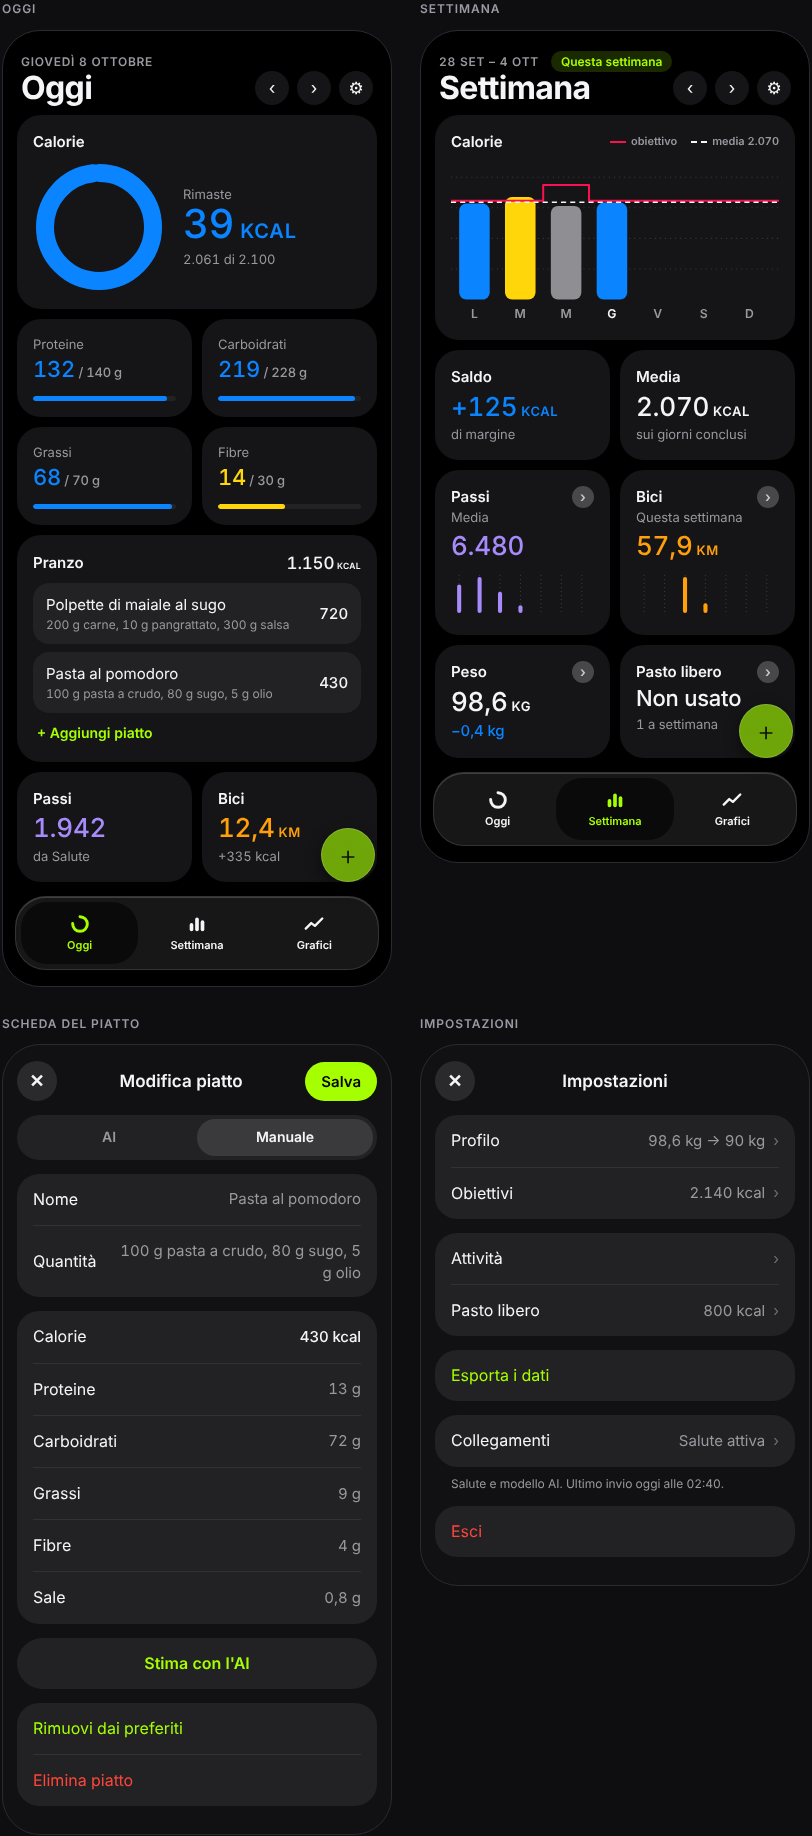
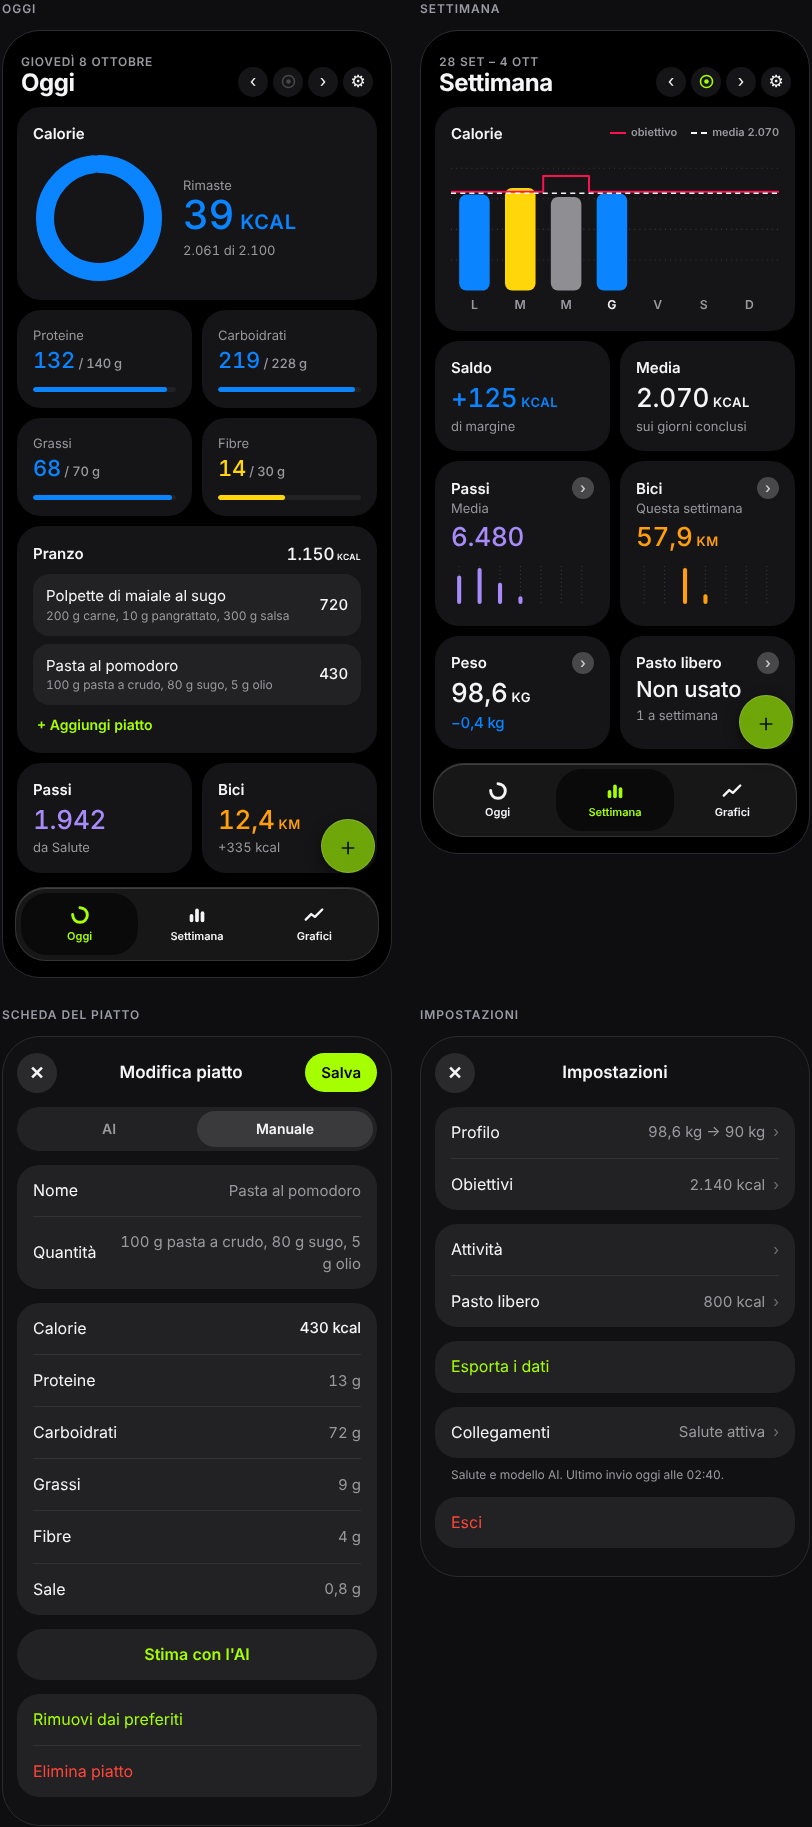
Fase 6: ritorno al presente come tasto icona tra le frecce
Claude-Session: https://claude.ai/code/session_014pArVVdaMw5SF5yB6rBTMQ

diff --git a/docs/design/bozza-fase-6.html b/docs/design/bozza-fase-6.html
@@ -26,12 +26,14 @@ h1{font-size:26px;margin:0;letter-spacing:-.02em;text-wrap:balance}
 .legend i{width:12px;height:12px;border-radius:50%;border:1px solid var(--line)}
 
 .phone{position:relative;border-radius:38px;overflow:hidden;background:#000;color:var(--p-fg);padding:22px 14px 104px;display:flex;flex-direction:column;gap:10px;border:1px solid var(--line);font-variant-numeric:tabular-nums}
-.top{display:flex;justify-content:space-between;align-items:flex-end;padding-inline:4px}
+.top{display:flex;justify-content:space-between;align-items:flex-end;gap:8px;padding-inline:4px}
+.top>div:first-child{min-width:0}
+.day{white-space:nowrap}
 .day{font-size:12px;letter-spacing:.06em;text-transform:uppercase;color:var(--p-muted);font-weight:600}
-.big{font-size:32px;font-weight:700;letter-spacing:-.02em;line-height:1.1}
-.nav{display:flex;gap:8px}
-.back{margin-left:8px;padding:3px 10px;border-radius:99px;background:rgba(166,255,0,.16);color:var(--acc);letter-spacing:0;text-transform:none;font-size:12px}
-.nav span{width:34px;height:34px;border-radius:50%;display:grid;place-items:center;font-size:17px;background:var(--card);color:var(--p-fg)}
+.big{font-size:24px;font-weight:700;letter-spacing:-.02em;line-height:1.1}
+.nav{display:flex;gap:5px;flex:none}
+.nav .now{color:var(--acc)}.nav .now.off{color:#48484a}
+.nav span{width:30px;height:30px;border-radius:50%;display:grid;place-items:center;font-size:17px;background:var(--card);color:var(--p-fg)}
 .card{border-radius:24px;padding:16px;background:var(--card);min-width:0}
 .ct{display:flex;justify-content:space-between;align-items:center;font-weight:600;font-size:15px}
 .chev{width:22px;height:22px;border-radius:50%;background:#48484a;color:#c7c7cc;display:grid;place-items:center;font-size:14px;line-height:1}
@@ -161,7 +163,7 @@ const tab=on=>`<div class="tab">${["Oggi","Settimana","Grafici"].map(t=>`<span c
 const R=54,C=2*Math.PI*R;
 const macro=(l,v,t,p,c)=>`<div class="card"><div class="lbl">${l}</div><div class="num" style="font-size:22px;color:var(${c})">${v}<span style="font-size:13px;color:var(--p-muted);font-family:var(--sys);font-weight:500"> / ${t}</span></div><div class="bar"><i style="width:${p}%;background:var(${c})"></i></div></div>`;
 document.getElementById("oggi").innerHTML=`
-  <div class="top"><div><div class="day">Giovedì 8 ottobre</div><div class="big">Oggi</div></div><div class="nav"><span>‹</span><span>›</span><span>⚙</span></div></div>
+  <div class="top"><div><div class="day">Giovedì 8 ottobre</div><div class="big">Oggi</div></div><div class="nav"><span>‹</span><span class="now off"><svg viewBox="0 0 24 24" width="17" height="17"><circle cx="12" cy="12" r="8.5" fill="none" stroke="currentColor" stroke-width="2.2"/><circle cx="12" cy="12" r="3.2" fill="currentColor"/></svg></span><span>›</span><span>⚙</span></div></div>
   <div class="card"><div class="ct">Calorie</div>
     <div class="ringrow"><div class="ring"><svg viewBox="0 0 132 132"><circle cx="66" cy="66" r="${R}" fill="none" stroke="#0a2440" stroke-width="18"/><circle cx="66" cy="66" r="${R}" fill="none" stroke="#0a84ff" stroke-width="18" stroke-linecap="round" stroke-dasharray="${C*.981} ${C}"/></svg></div>
       <div><div class="lbl">Rimaste</div><div class="num" style="font-size:40px;line-height:1;color:var(--ok)">39<small> kcal</small></div><div class="lbl" style="margin-top:6px">2.061 di 2.100</div></div></div></div>
@@ -188,7 +190,7 @@ g+=`<path d="${tgt.map((t,i)=>`${i?"L":"M"}${i?i*45+0.5:0} ${y(t)} L${i<6?(i+1)*
 g+=`<line x1="0" x2="322" y1="${y(avg)}" y2="${y(avg)}" stroke="#f5f5f7" stroke-width="1.5" stroke-dasharray="5 4"/>`;
 const mini=(vals,max,c)=>`<svg class="mini" viewBox="0 0 140 46" preserveAspectRatio="none">${[0,1,2,3,4,5,6].map(i=>`<line x1="${8+i*20}" x2="${8+i*20}" y1="2" y2="40" stroke="#3a3a3c" stroke-width="1" stroke-dasharray="1 3"/>`).join("")}${vals.map((v,i)=>v?`<rect x="${6+i*20}" y="${40-(v/max)*36}" width="4" height="${(v/max)*36}" rx="2" fill="${c}"/>`:"").join("")}</svg>`;
 document.getElementById("sett").innerHTML=`
-  <div class="top"><div><div class="day">28 set – 4 ott <span class="back">Questa settimana</span></div><div class="big">Settimana</div></div><div class="nav"><span>‹</span><span>›</span><span>⚙</span></div></div>
+  <div class="top"><div><div class="day">28 set – 4 ott</div><div class="big">Settimana</div></div><div class="nav"><span>‹</span><span class="now"><svg viewBox="0 0 24 24" width="17" height="17"><circle cx="12" cy="12" r="8.5" fill="none" stroke="currentColor" stroke-width="2.2"/><circle cx="12" cy="12" r="3.2" fill="currentColor"/></svg></span><span>›</span><span>⚙</span></div></div>
   <div class="card"><div class="ct"><span>Calorie</span><span class="key"><span><b class="t"></b>obiettivo</span><span><b class="d"></b>media ${avg.toLocaleString("it-IT")}</span></span></div>
     <svg class="chart" viewBox="0 0 322 158">${g}</svg></div>
   <div class="grid">

diff --git a/docs/BRIEF.md b/docs/BRIEF.md
@@ -320,7 +320,7 @@ Pochi componenti condivisi, usati ovunque:
 - **Barra in basso**: capsula sospesa in vetro, tre voci con icona e nome (Oggi, Settimana, Grafici). La voce attiva sta in una pillola più scura, nel colore Comando.
 - **Tasto +**: cerchio di 52 px nel colore Comando al 62% di opacità, opaco (senza sfumature né alone), sospeso in basso a destra **sopra** la barra e staccato da essa di almeno 12 px. In fondo a ogni schermata c'è spazio vuoto sufficiente perché, a fine pagina, il + e la barra non coprano contenuto.
 - **Impostazioni**: non sono più nella barra. Si aprono da un tasto a ingranaggio in alto a destra, presente sia in Oggi sia in Settimana, come pannello con la X. Dentro, l'elenco a sezioni di §2.
-- **Ritorno al presente**: quando si guarda un giorno diverso da oggi, accanto alla data compare una pillola piccola nel colore Comando, "Oggi", che riporta al giorno corrente; in Settimana, quando si guarda un'altra settimana, la pillola "Questa settimana". Sul giorno o sulla settimana corrente la pillola non c'è. Nei pannelli con le frecce delle settimane vale lo stesso.
+- **Intestazione di Oggi e Settimana**: a sinistra la data in piccolo e sotto il titolo; a destra, su una riga, quattro tasti tondi: freccia indietro, **ritorno al presente**, freccia avanti, ingranaggio. Il tasto di ritorno è un'icona (cerchio con un punto al centro) tra le due frecce: nel colore Comando quando si guarda un altro giorno o un'altra settimana, grigio e disattivato sul presente; resta sempre al suo posto, così le frecce non si spostano. Nessuna scritta "Oggi" o "Questa settimana". Titolo e tasti stanno su una riga anche a 375 px: se serve si riduce il titolo, mai a capo e mai tasti tagliati. I tasti possono apparire più piccoli di 44 px ma l'area toccabile resta di 44 px. Nei pannelli con le frecce delle settimane lo stesso tasto sta tra le due frecce.
 - **Icone**: disegnate nel repository come SVG a tratto, nello stile delle icone di sistema Apple; nessuna libreria di icone salvo motivo scritto nel diario.
 
 ### 10.5 Schermate

diff --git a/docs/TASKS.md b/docs/TASKS.md
@@ -546,7 +546,7 @@ Vincoli di questa fase:
 
 ### T6.1 Navigazione: barra, tasto + e Impostazioni · da fare
 - Barra in basso, tasto + e ingranaggio come in §10.4. Tre icone SVG a tratto (anello, barre, linea).
-- Pillole "Oggi" e "Questa settimana" come in §10.4 (in Oggi sostituisce il tasto "Oggi" attuale): visibili solo lontano dal presente, anche nei pannelli con le frecce delle settimane. Test: assente sul presente, presente altrove, il tocco riporta al presente.
+- Intestazione di Oggi e Settimana come in §10.4: frecce, tasto icona di ritorno al presente tra le due frecce (in Oggi sostituisce il tasto "Oggi" attuale), ingranaggio. Lo stesso tasto nei pannelli con le frecce delle settimane. Test: disattivato sul presente, attivo altrove, il tocco riporta al presente. Screenshot dell'intestazione a 375 px con il titolo "Settimana" intero e i quattro tasti visibili.
 - Impostazioni esce dalla barra e si apre come pannello dall'ingranaggio, presente in Oggi e in Settimana; le sue pagine interne restano quelle della fase 5c. L'indirizzo diretto delle Impostazioni continua a funzionare.
 - L'avviso di Oggi sui dati da Salute porta ancora a Collegamenti.
 - Spazio in fondo a ogni schermata come in §10.4. Su schermi stretti (375 px) le tre voci non vanno a capo e non si toccano con il +.
